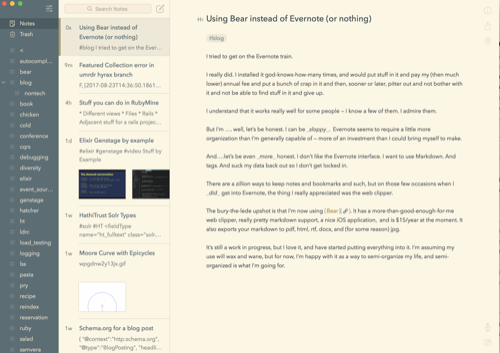
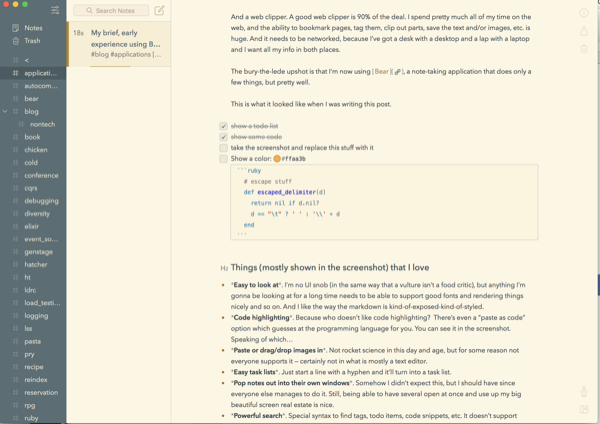
Added Bear post

diff --git a/content/post/experience_so_far_using_bear.md b/content/post/experience_so_far_using_bear.md
@@ -1,0 +1,71 @@
++++ 
+date = "2017-09-01"
+draft = false
+tags = ["tech", "applications"]
+description = "Bear. It's like Evernote. But not."
+title = "My experience so far using Bear"
+highlight = true
+css = []
+scripts = []
+markup = "mmark"
++++
+
+[**tl;dr**: I tried Evernote and never really liked it. I’m now using [Bear](http://www.bear-writer.com/)]
+
+I tried to get on the Evernote train.
+
+I really did. I installed it god-knows-how-many times, and would put stuff in it and pay my (then much lower) annual fee and put a bunch of more crap in it and then, sooner or later, pitter out and not bother with it and not be able to find stuff in it and give up.
+
+I choose to view this as a technology problem and not a personal failing because I’m the one choosing, and I’m going to choose “technology problem.”
+
+<!--more-->
+
+Evernote seems to require a little more organization than I’m generally capable of — more of an investment than I could bring myself to make. I want a place to stick stuff so I can _avoid_ having to make lots of organizational decisions in the spur of the moment. Add in the pricing structure and the iffy applications and I didn’t see a lot of reason to force myself.
+
+## The real reason I don’t use Evernote
+I want to write in a markup language like [asciidoc(tor)](http://asciidoctor.org/) or [markdown](https://github.github.com/gfm/).
+
+I know that’s kind of a dumb reason. I mean, I _know_. You don’t have to tell me. But every time I started looking at Evernote or a competitor, I found myself wondering if there’s a way I could write asciidoc or markdown. I’ve gone through the trouble of using a markdown plugin for Confluence. I use [a chrome plugin that lets me use markdown for all my in-browser stuff](http://markdown-here.com/) (including Gmail!).
+
+I tried out  [Microsoft OneNote](https://www.onenote.com/) and Apple Notes and [nvALT](http://brettterpstra.com/projects/nvalt/). I tried [Org mode for Emacs](http://orgmode.org/) and [TiddlyWiki](http://tiddlywiki.com/), and I found out that there are about a million people out there who are pretty sure they can do it all in `vim` and if you don’t like it it’s because you’re not a Real Programmer.
+
+So, I thought, I’ll just kinda roll my own with git and [Asciidoctor](http://asciidoctor.org/) and grep and a few other odds and ends. Just like, apparently, a zillion other people have tried.  I read up and found some folks trying to roll their own with Dropbox and shell scripts and something like [Hugo](https://gohugo.io/). And there’s no way I’m  was going to get something I like on my own. I want real search, and tagging, and most of all to have someone else in charge of keeping it running.
+
+And a web clipper. A good web clipper is 90% of the deal. I spend pretty much all of my time on the web, and the ability to bookmark pages, tag them, clip out parts, save the text and/or images, etc. is huge. And it needs to be networked, because I’ve got a desk with a desktop and a lap with a laptop and I want all my info in both places.
+
+The bury-the-lede upshot is that I’m now using [Bear](http://www.bear-writer.com/), a note-taking application that does only a few things, but pretty well.
+
+This is what it looked like when I was writing this post.
+
+![](/images/bear.png)
+
+## Things (mostly shown in the screenshot) that I love
+* **Easy to look at**. I’m no UI snob (in the same way that a vulture isn’t a food critic), but anything I’m gonna be looking at for a long time needs to be able to support good fonts and rendering things nicely and so on. And I like the way the markdown is kind-of-exposed-kind-of-styled.
+* **Code highlighting**. Because who doesn’t like code highlighting?  There’s even a “paste as code” option which guesses at the programming language for you. You can see it in the screenshot. Speaking of which…
+* **Paste or drag/drop images in**. Not rocket science in this day and age, but for some reason not everyone supports it — certainly not in what is mostly a text editor.
+* **Easy task lists**. Just start a line with a hyphen and it’ll turn into a task list.
+* **Pop notes out into their own windows**. Somehow I didn’t expect this, but I should have since everyone else manages to do it. Still, being able to have several open at once and use up my big beautiful screen real estate is nice.
+* **Powerful search**. Special syntax to find tags, todo items, code snippets, etc. It doesn’t support regular expressions, but that’s getting a bit 
+* **Export**. In addition to getting an actually-useful dump of the whole database, any given page can be exported as  pdf, html, rtf, docx, and (for some reason) jpg. 
+* **Other little touches**. For example, see how putting in something that looks like a hex color puts a dot of that color on your screen? Also, it’s a pretty-good-to-very-good markdown editor.
+
+## Less great things
+So, Bear is relatively new, and is not without missing features or rough edges. Full disclosure: so far only one of these has bugged me (the lack of auto-complete). 
+
+* **No PC Version**. Not bad for me, other that it’d be nice if their market was bigger so they could do more great things for _me_.
+* **You gotta use Apple Cloud**. Look, I get this. Let someone else take care of the infrastructure stuff you don’t care about, and why not pick something that you _know_ everyone is going to have available to them? It still kinda rankles. The easy export helps, though.
+* **Tags don’t auto-complete**. This is kind of killer, but I’m temporarily overlooking it because I can’t imagine it won’t be addressed soon. When I type `#blo` it should damn well expand to `#blog`. Tags that don’t autocomplete are only as useful as my memory, which is shoddy enough that I need tags.
+
+## Things that might be deal-breakers for other folks
+* **Doesn’t index attachments**. Bear won’t go digging around in an attached PDF or DOCX document  to grab text for full-text indexing. That’s not important in the world I live in, but I can totally see where it is for other folks. For now I’m grabbing the abstract and pasting it in if need be.
+* **No OCR**. I literally never used it in Evernote. I know some people do, but everything I work with is born-digital so getting at the text just isn’t that hard.
+
+## What about mobile?
+I’ve only used the iOS app, but it does what I want it to do.  The iPhone isn’t a great writing platform, but it’s easy to clip things from other apps (through the standard iOS “sharing” function) and add photos/images or other random attachments. You can even share stuff with AirDrop, which is a thing I didn’t actually know about.
+
+## Overall thoughts
+Bear is still a work in progress, but I love it, and have started putting everything into it. There are holes, obviously, but I find it kind of neat that the developers are so active in the [Reddit /r/bearapp subreddit](http://reddit.com/r/bearapp). One really gets the sense that they’re listening to at least that vocal minority.
+
+I’m assuming my use of it will wax and wane, as it does with other organizational tools and processes. 
+For now, I like it. I’m happy with it as a way to semi-organize my life, and semi-organized is what I’m going for.
+
